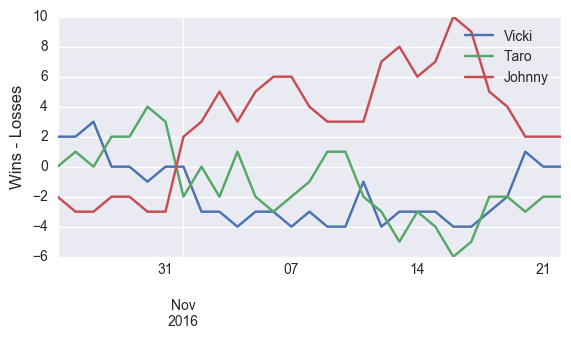
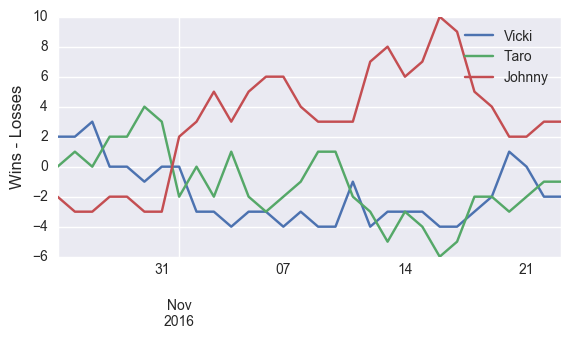
update 11/23

diff --git a/index.html b/index.html
@@ -35,32 +35,32 @@
 <a id="the-bet-is-on" class="anchor" href="#the-bet-is-on" aria-hidden="true"><span aria-hidden="true" class="octicon octicon-link"></span></a>The bet is on.</h1>
 
 <h1>
-<a id="current-winner-of-2016-17-season" class="anchor" href="#current-winner-of-2016-17-season" aria-hidden="true"><span aria-hidden="true" class="octicon octicon-link"></span></a>Current winner of 2016-17 Season (as of 11/22/2016):</h1>
+<a id="current-winner-of-2016-17-season" class="anchor" href="#current-winner-of-2016-17-season" aria-hidden="true"><span aria-hidden="true" class="octicon octicon-link"></span></a>Current winner of 2016-17 Season (as of 11/23/2016):</h1>
 
 <h2>
-<a id="none" class="anchor" href="#none" aria-hidden="true"><span aria-hidden="true" class="octicon octicon-link"></span></a><strong>Vicki</strong>
+<a id="none" class="anchor" href="#none" aria-hidden="true"><span aria-hidden="true" class="octicon octicon-link"></span></a><strong>Johnny</strong>
 </h2>
 
 <h2>
 <a id="johnny" class="anchor" href="#johnny" aria-hidden="true"><span aria-hidden="true" class="octicon octicon-link"></span></a>Johnny</h2>
 
-<p>Wins: 70<br>
-Losses: 68<br>
-Remaining wins available: 580</p>
+<p>Wins: 72<br>
+Losses: 69<br>
+Remaining wins available: 577</p>
 
 <h2>
 <a id="taro" class="anchor" href="#taro" aria-hidden="true"><span aria-hidden="true" class="octicon octicon-link"></span></a>Taro</h2>
 
-<p>Wins: 67<br>
-Losses: 69<br>
-Remaining wins available: 579</p>
+<p>Wins: 69<br>
+Losses: 70<br>
+Remaining wins available: 576</p>
 
 <h2>
 <a id="vicki" class="anchor" href="#vicki" aria-hidden="true"><span aria-hidden="true" class="octicon octicon-link"></span></a>Vicki</h2>
 
 <p>Wins: 70<br>
-Losses: 70<br>
-Remaining wins available: 579</p>
+Losses: 72<br>
+Remaining wins available: 577</p>
 
 <img src='pythoncode/win_percent.png' alt='Winning Percentage Over Time'>
 <h1>
